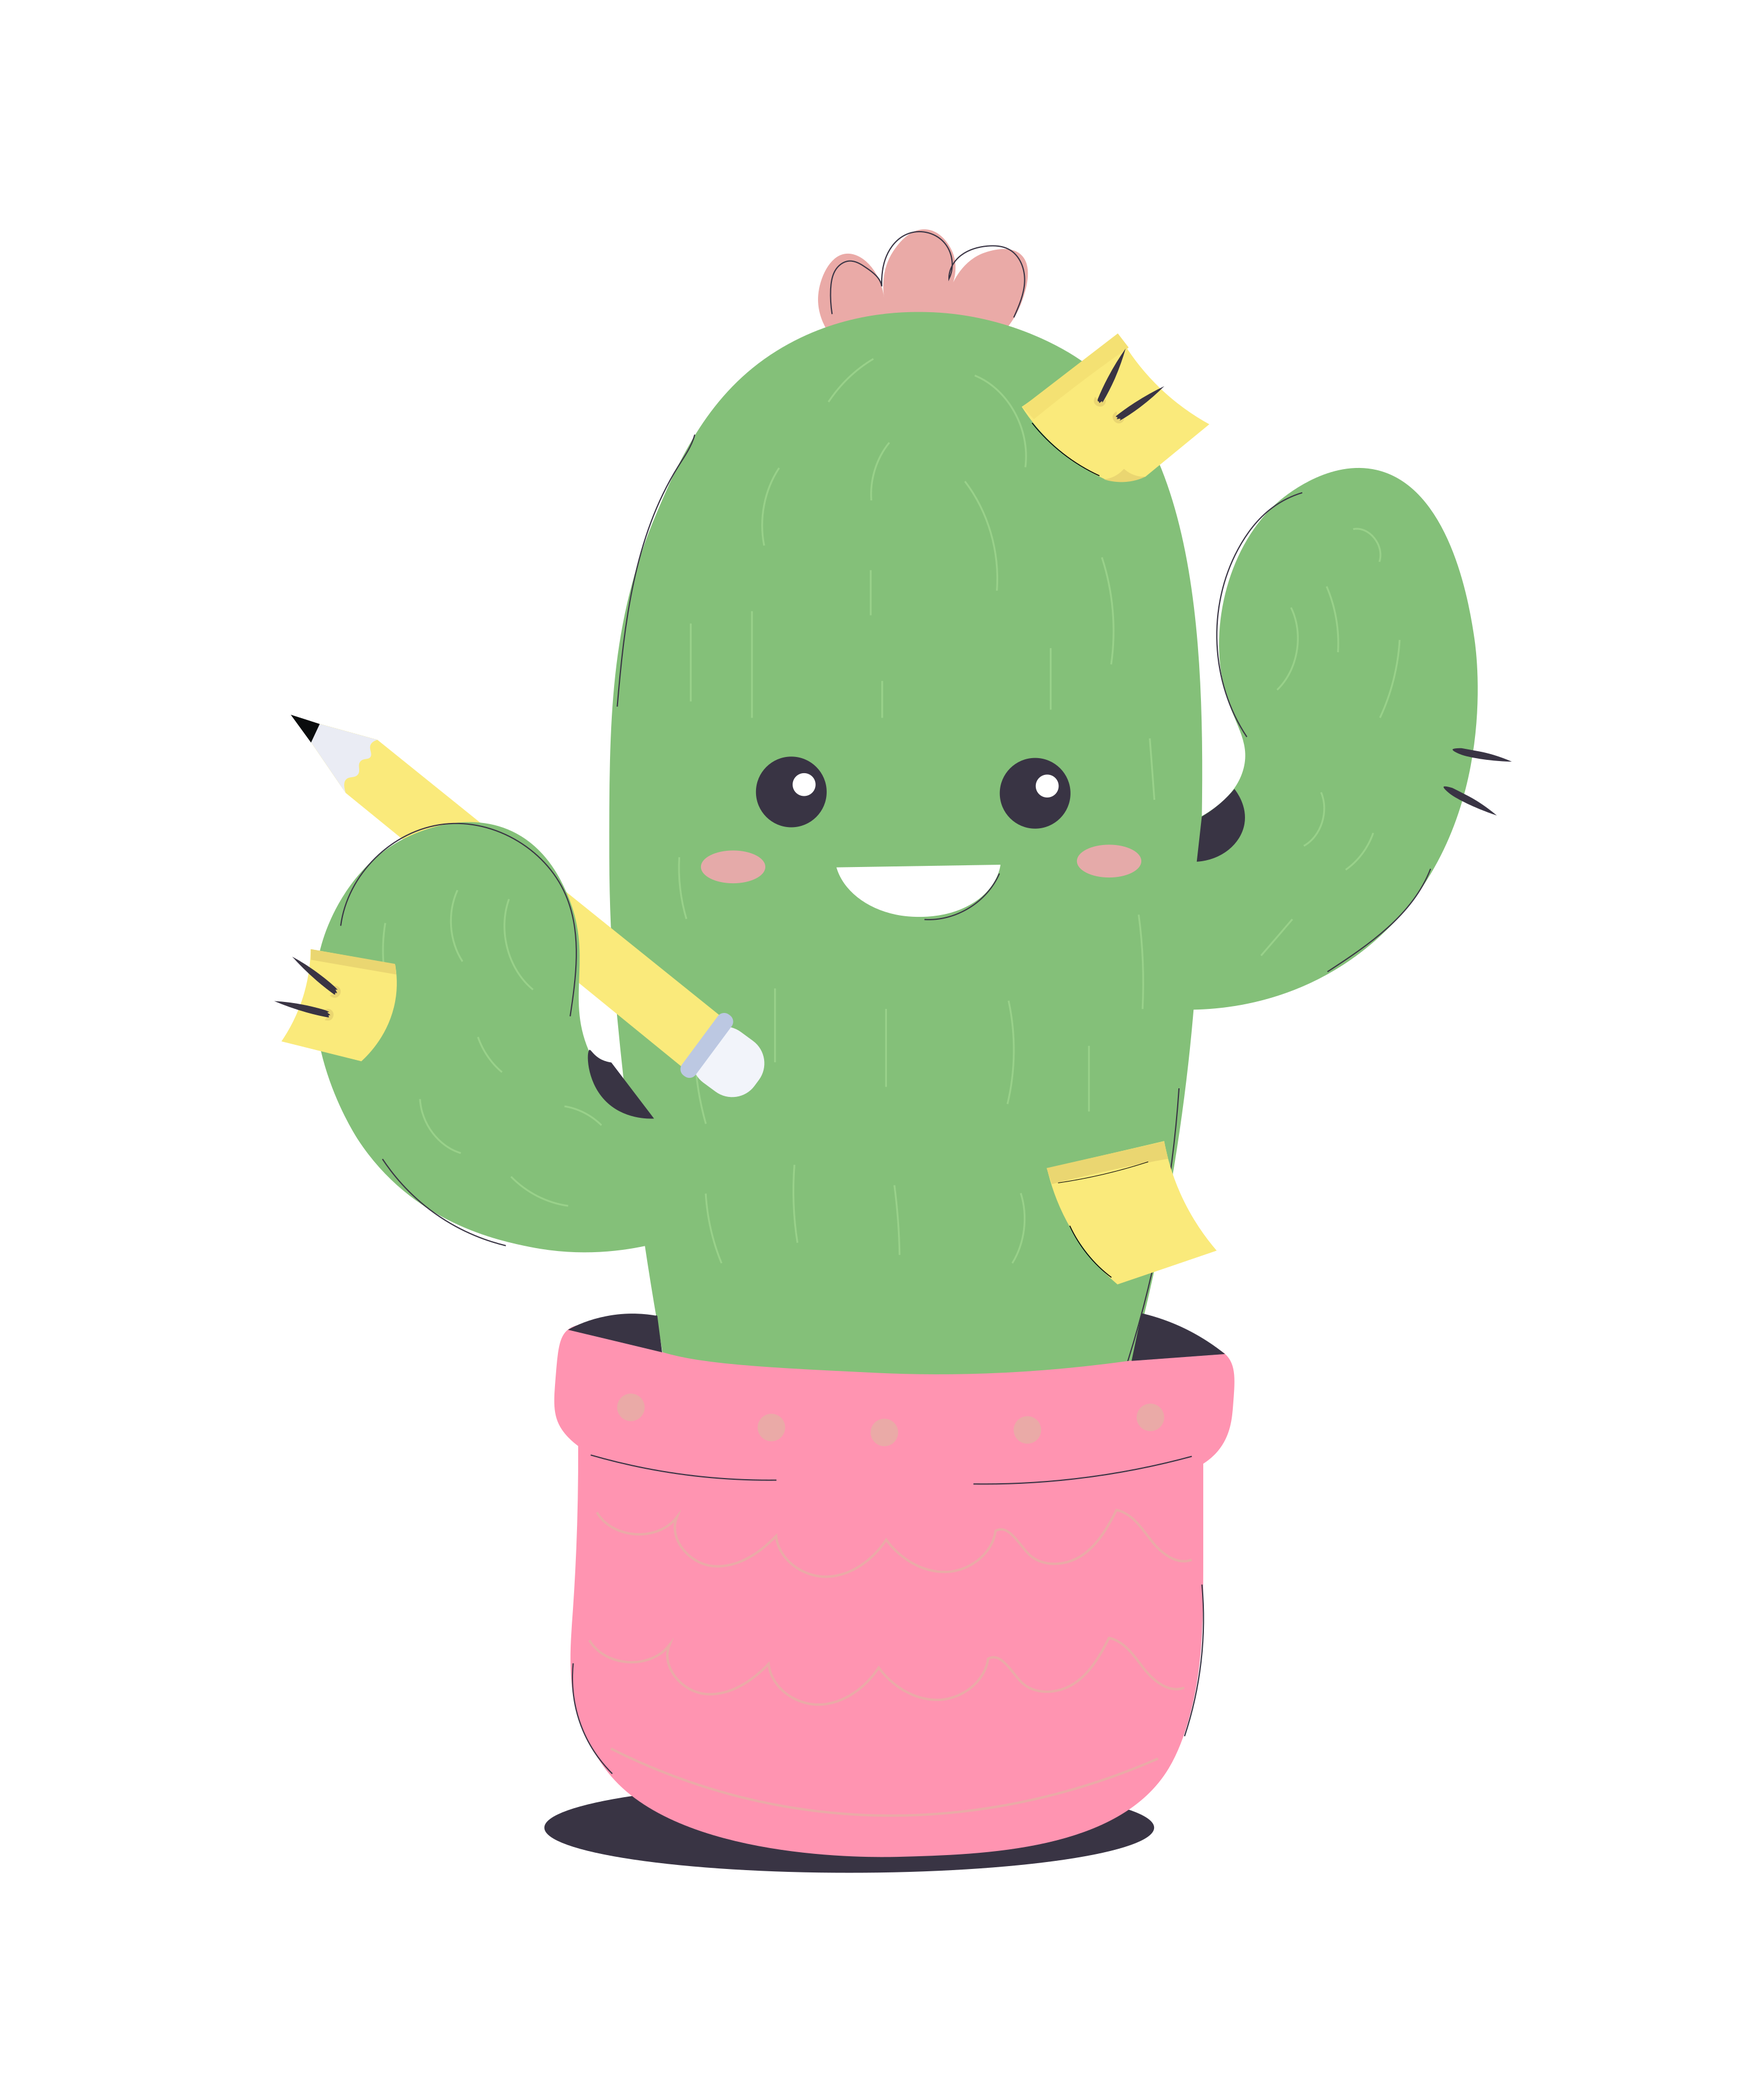
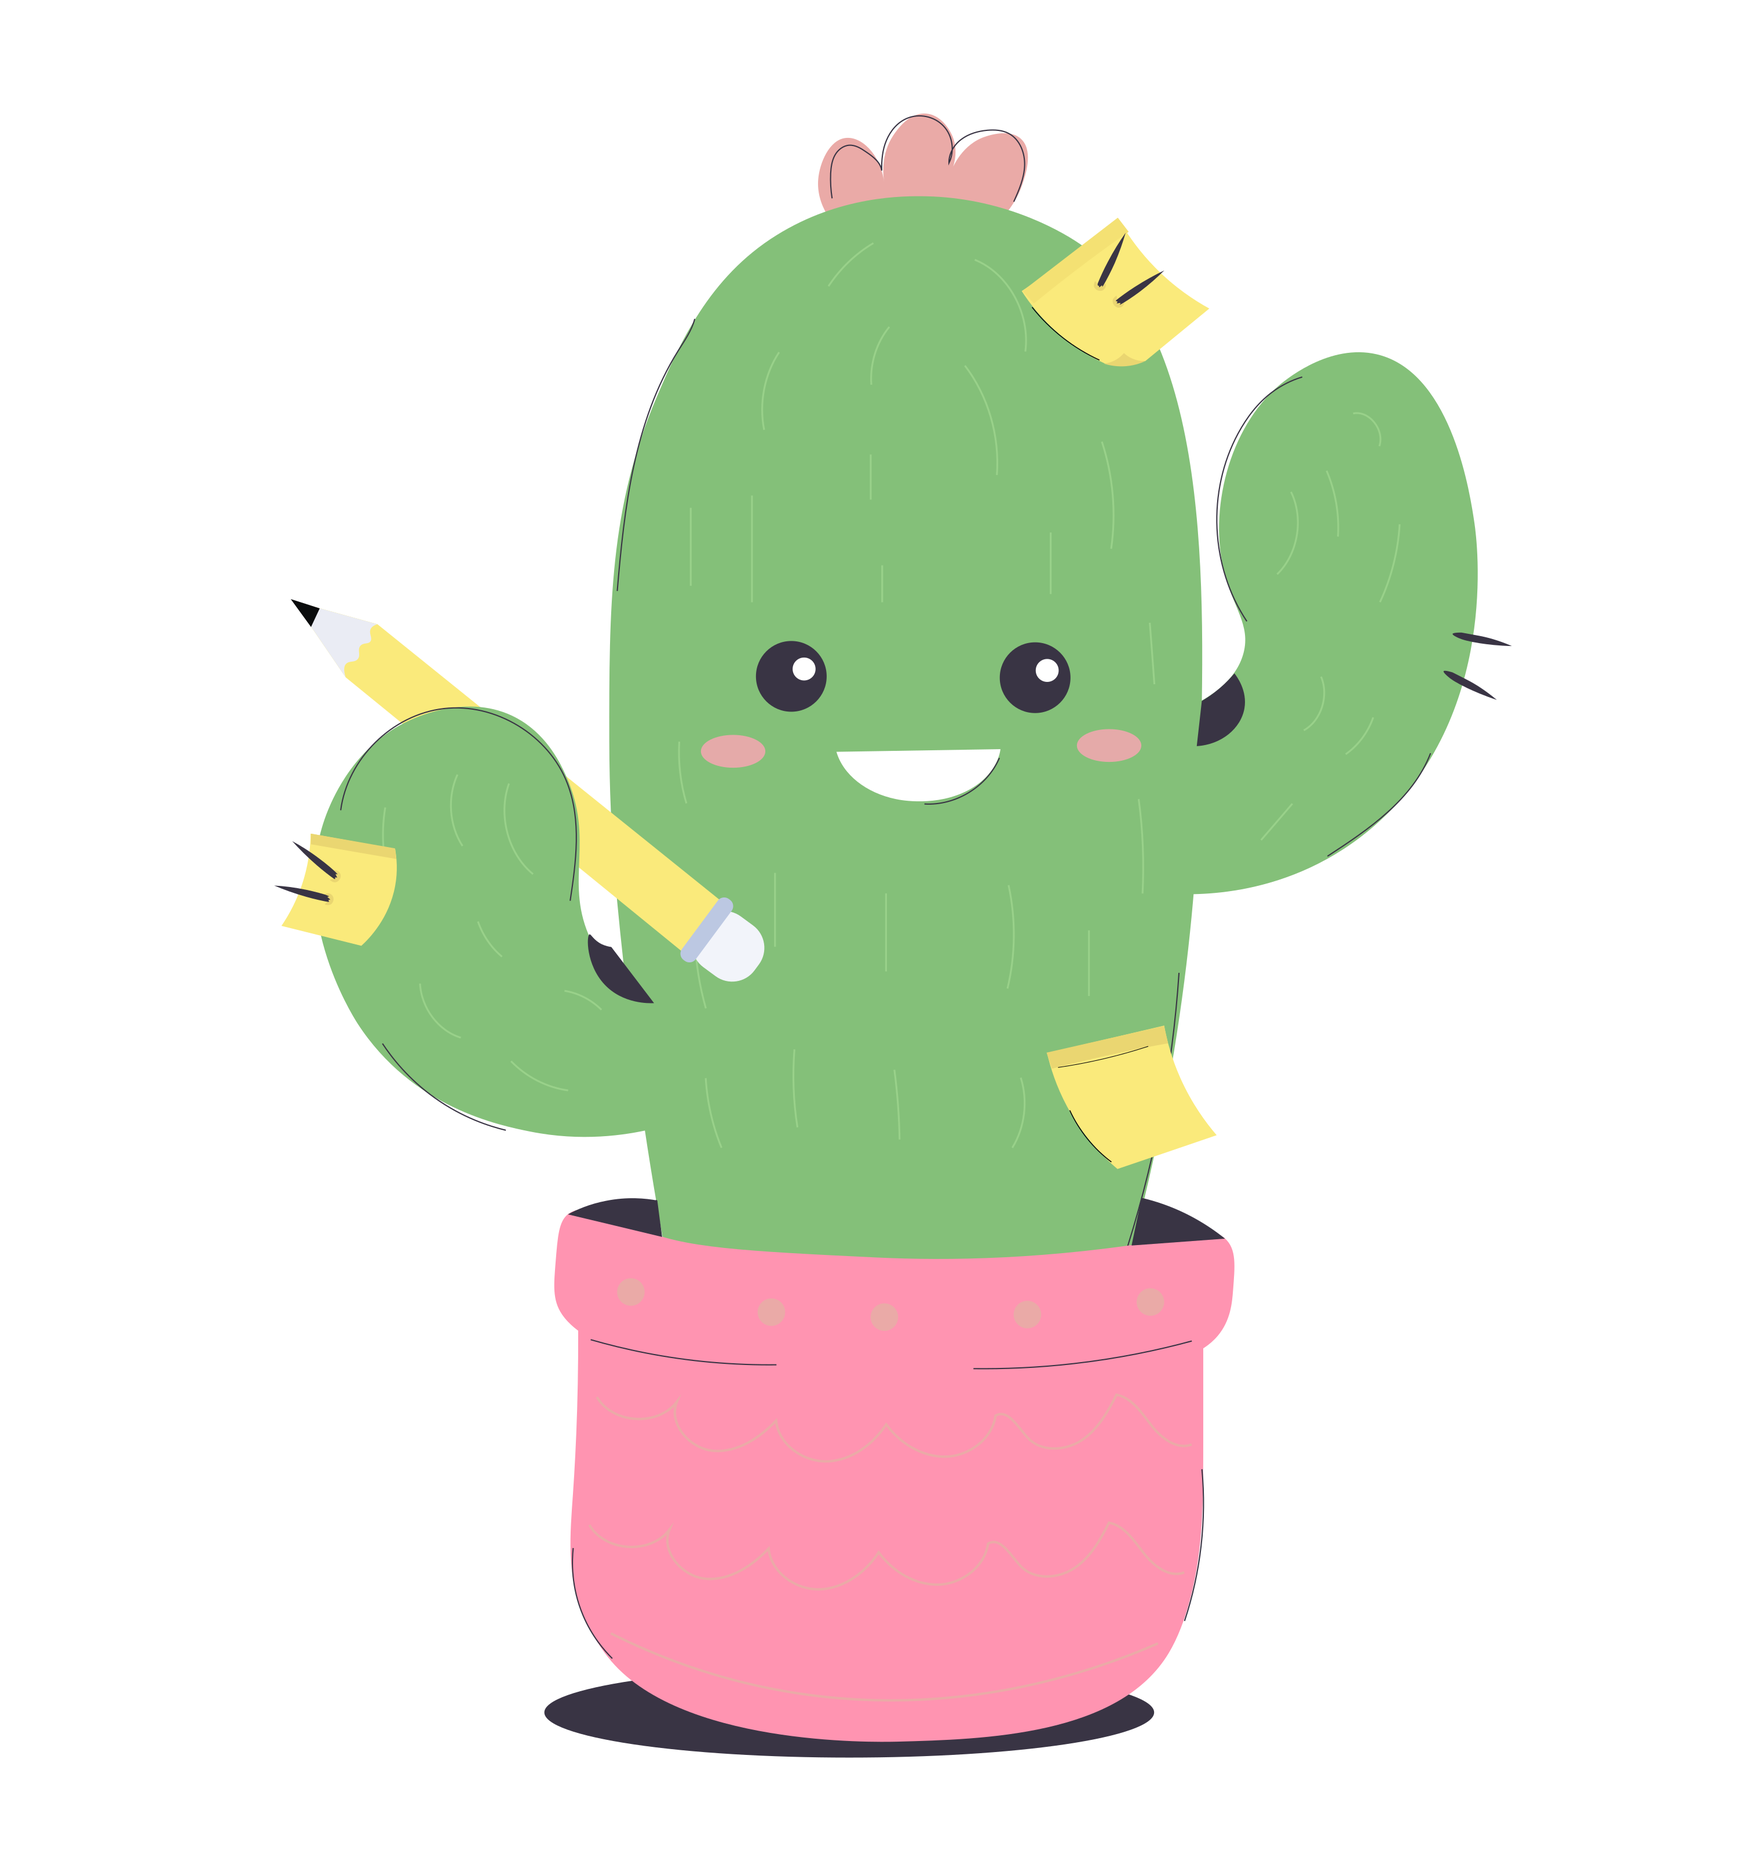
smaller, responsively scaling image

diff --git a/layouts/index.html b/layouts/index.html
@@ -3,15 +3,12 @@
   <div class="row justify-content-center">
     <div class="col-lg-12 text-center">
       <h1 class="mt-0">{{ .Title }}</h1>
+      <img src="cactus500.png" alt="Cactus Comments logo" caption="<em>Cactus Comments</em>" class="img-fluid"/>
     </div>
 
-    <div class="row">
-      <div class="col-4">
-        <img src="cactus800.png" alt="Cactus Comments logo" caption="<em>Cactus Comments</em>" class="mx-auto d-block border-0"/>
-      </div>
-    </div>
 
     <div class="col-lg-9 col-xl-8 text-center">
+
       <p class="lead">{{ .Params.lead | safeHTML }}</p>
       <a class="btn btn-primary btn-lg px-4 mb-2" href="{{ "docs/prologue/introduction/" | absURL }}" role="button">Get started</a>
       <p class="meta">Open-source GPL Licensed. <a href="https://gitlab.com/cactus-comments/cactus-client">Client v{{ .Site.Data.cactusclient.version }}</a></p>
